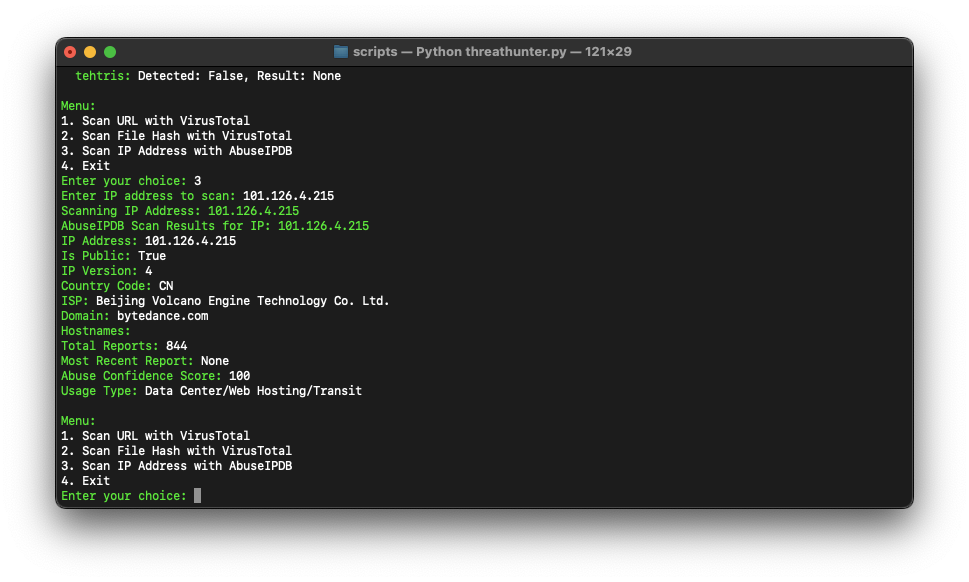
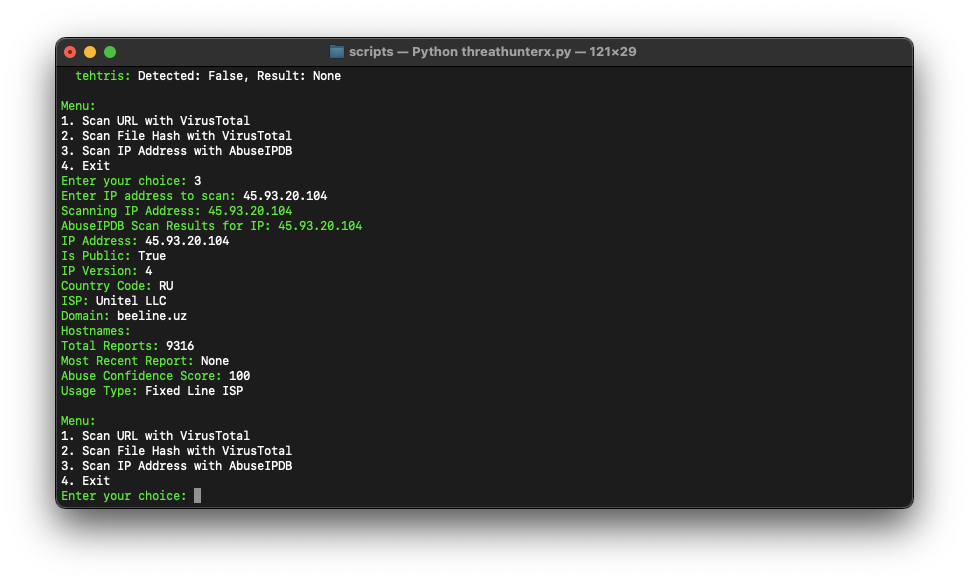
OK

diff --git a/ThreatHunterX/readme.md b/ThreatHunterX/readme.md
@@ -20,7 +20,7 @@ You can register with [AbuseIPDB](https://www.abuseipdb.com/register?plan=free) 
 1. Place `threathunterx.py` in a local folder, such as your Python virtual environment: `~/py_envs/scripts`.
 2. Enable your virtual Python environment: `source ~/py_envs/bin/activate`
 3. Browse to the path: `cd py_envs/scripts`
-4. Start ThreatHunter: `python3 threathunterx.py`
+4. Start ThreatHunterX: `python3 threathunterx.py`
 
 ## ThreatHunterX demo
 #### URL Scan:
